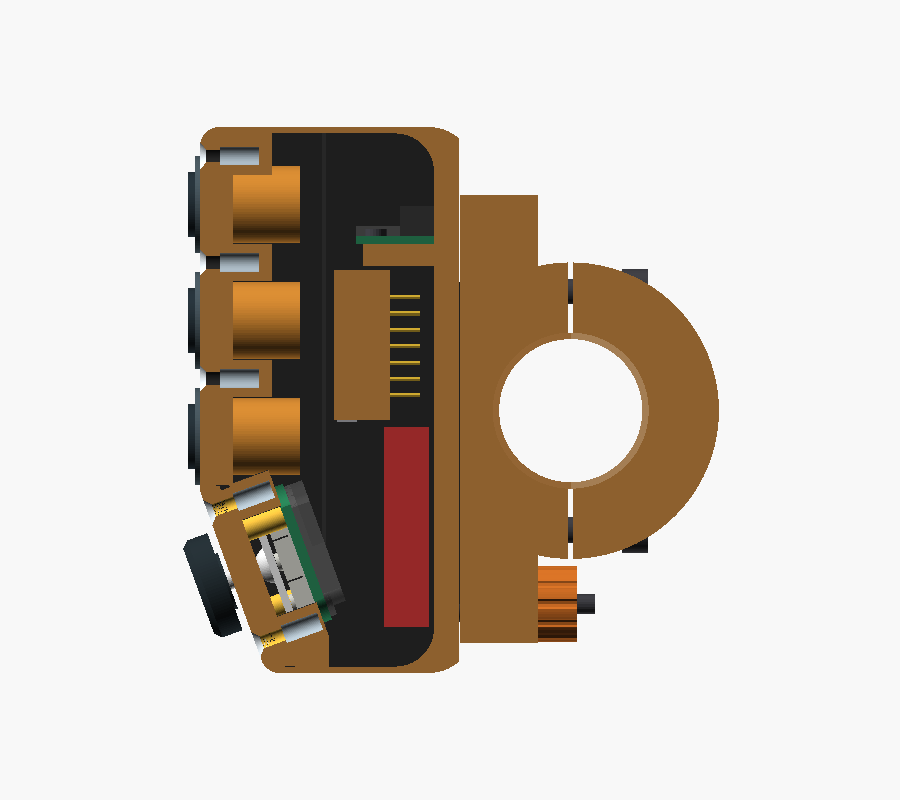
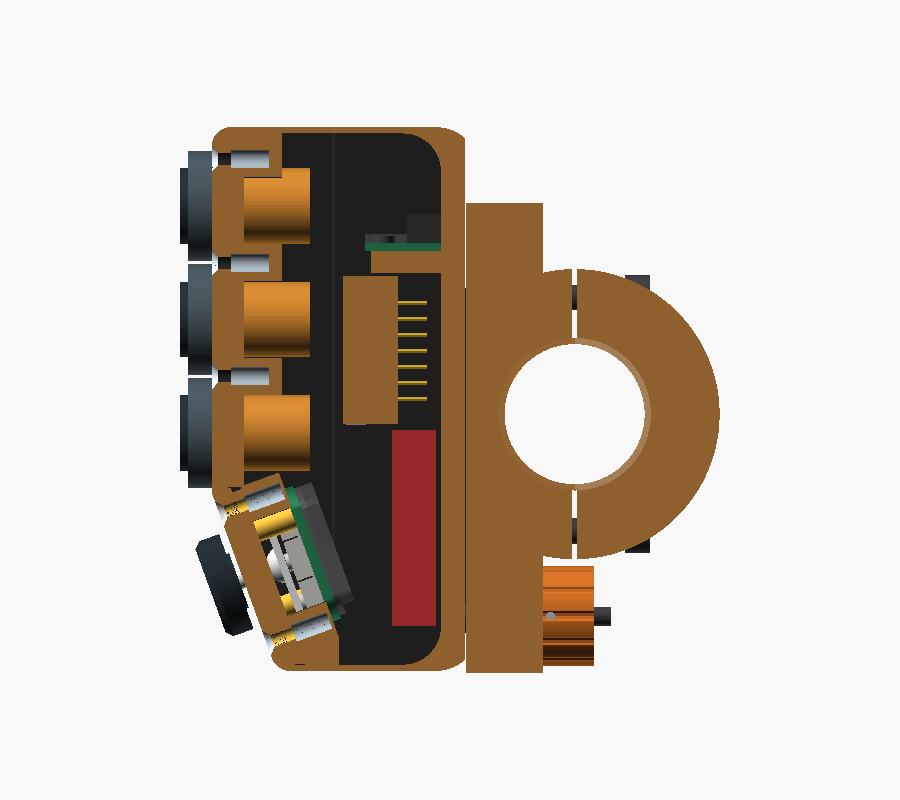
Fit APEM buttons and a quarter-turn lock to V0.24
Choose the APEM ISR3SAD200 for buttons A, B and C, and model it from
the IS series datasheet: the cut-out gets APEM's anti-rotation flat,
and the bezel, actuator and hex nut are real sizes. The buttons move
up 1 mm and the pod top 1.5 mm so each 17.5 mm bezel sits on the
flat facet; the gasket lip narrows to 2.8 mm to clear the nuts.

Turn the lock knob into a quarter-turn cup with two steel pins in
L-slots, so it cannot be pulled until it is turned 90 degrees. Use a
0.5 x 5 x 10 mm spring and an M3 x 22 screw. The BOM, notes, renders
and animation are updated.

diff --git a/docs/mechanical-concept.md b/docs/mechanical-concept.md
@@ -52,7 +52,7 @@ All images are direct OpenSCAD renders of the V0.24 or V0.23 file. The PCB image
 
 ### Base and remote
 
-- **Base.** The clamp ring stays on the bar: two halves split through the bar axis, two M4 × 16 bolts, M4 inserts in the front half, a 1 mm TPU liner. Its outside grows from Ø44 to Ø46 mm, and the bolts move from ±17 to ±18.5 mm, so the same layout suits a 25.4 mm bore. In front of the bar the base is cut flat at X = −17.2 mm (`platform_x`), 3.5 mm in front of the 25.4 mm bore with its liner. That flat platform runs from Y = −36 to +33.5 mm.
+- **Base.** The clamp ring stays on the bar: two halves split through the bar axis, two M4 × 16 bolts, M4 inserts in the front half, a 1 mm TPU liner. Its outside grows from Ø44 to Ø46 mm, and the bolts move from ±17 to ±18.5 mm, so the same layout suits a 25.4 mm bore. In front of the bar the base is cut flat at X = −17.2 mm (`platform_x`), 3.5 mm in front of the 25.4 mm bore with its liner. That flat platform runs from Y = −41 to +33.5 mm.
 - **Bar sizes.** One base per bar size: `bar_diameter` = 22.2 (7/8 in) or 25.4 (1 in). The bore changes; nothing that meets the remote does. Tapered 28.6 mm bars come down to 22.2 mm at the controls.
 - **Remote.** The V0.23 pod without the ring and the shoulders, cut flat at X = −17.4 mm (`rear_x`). The cavity's rear wall moves from X = −22 to −21.2 mm, which gives the XIAO pins 2.2 mm instead of 1.4 mm.
 
@@ -76,12 +76,21 @@ The [battery study](battery-study.md) first proposed a bayonet turning around th
   - Only forces that slide the remote down load the lock: tilting the joystick down, shocks, and gravity, depending on how the unit is mounted.
 - **Anti-rattle.** Two TPU strips, 4 × 50 mm, sit in 0.6 mm pockets on the platform either side of the rails and stand 0.8 mm proud. They push the remote off the platform until the dovetail flanks seat, with the rear face 0.48 mm off the platform, which leaves the strips about 0.3 mm compressed. A firm press moves the remote back onto the platform by up to 0.48 mm. Whether that feels loose on the buttons needs a test.
 
+### Buttons
+
+- **APEM ISR3SAD200.** Sealed IP67 pushbutton: round curved black actuator, normally open, solder lugs, gold-plated contacts, standard Ø17.5 mm bezel with a flat seal, M12 × 0.75 bushing and a 14 mm A/F hex nut. The datasheet gives 4 ± 3 N, 1.7 mm travel, 10 g vibration and 100 g shock.
+- **Cut-out.** Ø13.6 mm with APEM's anti-rotation flat, 12.9 mm across, in place of the round cut-out with a 45° top.
+- **Layout.** The bezels need a flat seat on the upper facet, so the buttons move up 1 mm to Y = 33, 15 and −3 mm, the pod top from 44 to 45.5 mm, and the upper-facet cover screws to 40.5, 24 and 6 mm. Each bezel stays 0.75 mm from the fold and from the top corner radius. The pitch stays 18 mm; APEM recommends 20 mm.
+- **Nuts.** A hex nut can stop at any angle, so the CAD checks a Ø16.2 mm circle (its corners) behind each button: clear of the housing, the gasket, the joystick and each other once the gasket lip is 2.8 mm wide instead of 3 mm. There are 1.8 mm between nut corners at 18 mm pitch, so the nuts need an open-end wrench, not a socket.
+
 ### Lock
 
-- An M3 × 20 ISO 4762 screw is the lock pin: its Ø5.5 × 3 mm head runs in a Ø6 mm pocket in the platform at Y = −30 mm, below the clamp ring and clear of the lower bolt.
-- A compression spring under the head pushes it 2 mm out of the platform, into a Ø5.8 mm hole in the remote's rear face. A positive stop, not a detent: the remote cannot slide down until the head is pulled in.
-- The shank runs back through the base to a Ø12 mm printed knob with an M3 insert, locked by a nut. The knob rests on the back of the platform block (X = −5 mm) and sets how far the head stands out.
-- Pulling the knob 2 mm pulls the head flush. When the remote is pressed on at the entry position, its rear face pushes the head in; the head springs out when the hole comes over it.
+- An M3 × 22 ISO 4762 screw is the lock pin: its Ø5.5 × 3 mm head runs in a Ø6 mm pocket in the platform at Y = −32 mm, below the clamp ring and clear of the lower bolt.
+- A 0.5 × 5 × 10 mm stainless compression spring (wire × outside diameter × free length) under the head pushes it 2 mm out of the platform, with about 3.4 N (estimated, not measured), into a Ø5.8 mm hole in the remote's rear face. A positive stop, not a detent: the remote cannot slide down until the head is pulled in.
+- The shank runs back through the base to a Ø16 × 8 mm printed knob with an M3 insert, locked by a nut. The knob rests on the back of the platform block (X = −5 mm) and sets how far the head stands out.
+- **Quarter turn.** The knob is a cup over a Ø9 × 3.5 mm boss on the back of the block. Two Ø1.5 × 4 mm steel dowel pins through the cup wall run in L-slots in the boss. Locked, the pins sit in the circumferential part of the slots and the knob cannot be pulled; turning it 90° brings them to the axial part, and then it pulls out 2 mm. The CAD checks the knob locked, turned 45° and 90°, and pulled, with no overlap, and that it cannot be pulled while locked or half-turned.
+- **Vibration.** Vibration alone should not pull the head in: the moving parts weigh about 2.5 g, so the 3.4 N spring needs about 140 g along the pin axis to be overcome (an estimate). The quarter turn is against a branch or a strap pulling the knob.
+- Turning the knob 90° and pulling it 2 mm pulls the head flush. When the remote is pressed on at the entry position, its rear face pushes the head in; the head springs out when the hole comes over it.
 - Only 1 mm of the head stays in its pocket when locked. The shank, guided over 5 mm in the base, takes the moment.
 
 ### Battery, charging and vent
@@ -136,7 +145,7 @@ V0.22 keeps from V0.21 the sheet gasket and the plate that clamps it, and replac
 
 - **Folded front.** The fold line is 12.5 mm below the bar axis, between button C and the joystick. The lower facet is 30 mm long and turns 20° toward the bar (`fold_angle`), so its lower end sits 10.3 mm closer to the bar. This clears the thumb's path to the turn-signal switch, which the straight V0.19 face obstructed. The joystick axis is 14.5 mm below the fold.
 - **Why 20° and not 30°.** At 30° the end wall becomes too short for the gland lock nut beside the corner screw bosses. The 30° values are noted next to `fold_angle` in the CAD.
-- **Pod length.** Buttons at Y = 32, 14, −4 mm; the pod spans Y = −40.7 to 44 mm (84.7 mm). The axis-to-button-C distance is 57.5 mm perpendicular to the bar.
+- **Pod length.** In V0.24 the buttons are at Y = 33, 15, −3 mm and the pod spans Y = −40.7 to 45.5 mm (86.2 mm), 1.5 mm longer than in V0.23 (32, 14, −4; 44 mm), to fit the real APEM bezels. The axis-to-button-C distance is 57.5 mm perpendicular to the bar.
 - **Cover gasket.** 0.6 mm when compressed: printed 0.8 mm thick in a soft TPU, or cut from 0.8–1 mm silicone or EPDM sheet using the flat model as a template. On the upper facet the housing land is the wall plus a 3 mm lip inside both axial walls, and a Ø6 mm pad around every screw.
 - **Cover screws.** Ten countersunk M2 screws in pairs at five positions. The largest spacing along the perimeter is 21.8 mm.
 - **Cover printing.** The cover prints on its axial face, because the fold would need support face down.
@@ -200,7 +209,7 @@ The tightest points are now:
 
 V0.24 aims for rain and spray resistance, not an IP rating. It has not been tested.
 
-1. **Buttons.** Use buttons rated for front-panel sealing (IP67 or better), with their panel gasket. This has not been verified for the APEM IS order codes; check the datasheets before buying.
+1. **Buttons.** APEM ISR3SAD200, IP67 front-panel sealing (IEC 60529) with the flat seal under the bezel. The Ø17.5 mm bezel and its seal sit on the flat upper facet, 0.75 mm from the fold and from the top corner radius.
 2. **Joystick.** The cover hole is open to the outside. The sheet gasket is the seal there: it is clamped all round the hole and grips the stick. A printed TPU sheet that flexes with every stick movement may tear or creep; a cast silicone sheet would last longer.
 3. **Cover joint.** The gasket and ten screws. On the lower facet the sheet is clamped over the whole facet. Elsewhere the land is the 2 mm wall of the wide part.
 4. **USB-C.** The GCT USB4736 is rated IP67 with its USBTJ-06 gasket compressed on the thinned land; GCT says the gasket is fitted after the receptacle is soldered. Pot the back of the receptacle and its PCB with epoxy as a second barrier. On the bike the platform covers it. The groove and the lock hole are blind and do not open into the cavity.
@@ -251,7 +260,7 @@ Remote:
 
 Base:
 1. Press the two M4 inserts into the base front's split face.
-2. Drop the lock spring into the pocket, push the M3 × 20 screw through it from the platform side, and fit the lock knob (with its M3 insert) on the shank from behind. Turn the knob until the head stands 2 mm proud with the knob on the block, then lock it with an M3 nut.
+2. Press the two Ø1.5 × 4 mm dowel pins into the lock knob, and its M3 insert from inside the cup. Drop the lock spring into the pocket and push the M3 × 22 screw through it from the platform side. Fit the knob over the boss with the pins in the axial slots, thread it onto the shank until the head stands 2 mm proud with the knob on the block, turn it to the locked position, and lock it with an M3 nut.
 3. Glue the two TPU strips into their pockets.
 4. Fit the liner halves, place the base on the bar with the platform where the remote should sit, fit the cap from behind, set the angle, and tighten the two M4 × 16 bolts evenly.
 
@@ -276,27 +285,27 @@ V0.8 follows those functional and packaging cues while keeping original geometry
 | Feature | CAD value | Basis |
 |---|---:|---|
 | XIAO nRF52840 board outline | 21 × 17.8 mm | Seeed Studio published dimensions |
-| APEM IS button panel opening | Ø13.6 mm | APEM IS series drawing |
-| APEM reduced bezel option | 15 mm | APEM IS series options; confirm exact ordered variant |
+| APEM ISR3SAD200 panel cut-out | Ø13.6 mm with an anti-rotation flat 12.9 mm across | APEM IS series datasheet (16/08/2024); the flat is at the cover's print top, where it bridges |
+| APEM ISR3SAD200 head and nut | Ø12 mm actuator, Ø17.5 mm bezel, 5.0 mm above the panel; M12 × 0.75 bushing, 13 mm behind the panel; 14 mm A/F hex nut | APEM IS series datasheet; the reduced Ø15 mm bezel (option 234) was not found at distributors |
 | KSC2 switch | 6.2 (+0.3) × 6.2 (+0.3) mm body, 3.5 mm to the actuator top, Ø2.9 mm actuator; 2 N, 0.35 ± 0.15 mm travel (KSC22x) | C&K KSC2 datasheet; modelled at 6.5 mm |
 | Handlebar | Ø22.2 mm (7/8 in) or Ø25.4 mm (1 in) | One base per bar size; measure the actual straight section |
-| Base clamp | Ø46 mm outer diameter, Ø24.2 or Ø27.4 mm bore, flat platform at X = −17.2 mm from Y = −36 to +33.5 mm | Diametral split into two halves with a 0.8 mm clamping gap; not strength-validated |
+| Base clamp | Ø46 mm outer diameter, Ø24.2 or Ø27.4 mm bore, flat platform at X = −17.2 mm from Y = −41 to +33.5 mm | Diametral split into two halves with a 0.8 mm clamping gap; not strength-validated |
 | Remote rear face | Flat at X = −17.4 mm | 0.2 mm clear of the platform |
 | Dovetail | Rails 10 mm wide at the platform, 15 mm at the top, 2.5 mm high, 45° flanks; two 8 mm segments with a 9 mm gap; 7 mm lips; 0.2 mm clearance; 9 mm slide | Prints without supports on both parts; clearance to tune on the first print |
-| Lock | M3 × 20 ISO 4762 head (Ø5.5 × 3 mm) 2 mm proud, in a Ø6 mm pocket at Y = −30 mm; Ø5.8 mm hole in the remote; Ø12 × 6 mm knob | ISO 4762 head size; spring not yet chosen |
+| Lock | M3 × 22 ISO 4762 head (Ø5.5 × 3 mm) 2 mm proud, in a Ø6 mm pocket at Y = −32 mm; Ø5.8 mm hole in the remote; 0.5 × 5 × 10 mm spring; Ø16 × 8 mm quarter-turn knob on a Ø9 × 3.5 mm boss, two Ø1.5 × 4 mm pins | ISO 4762 head size; spring force estimated |
 | USB-C receptacle | GCT USB4736-GF-A; shell axis at Y = 29.5 mm in the rear face, long side along the bar; 1.80 mm panel, 9.14 × 3.36 mm slot, 11.00 × 5.90 × 0.60 mm gasket pocket; USBTJ-06 gasket 10.64 × 4.86 × 0.90 mm; body 9.99 wide, 4.61 mm above its PCB, 8.60 mm long | GCT drawing USB4736 rev. A (9 April 2025) |
 | LiPo pouch | 6 × 20 × 30 mm envelope with 0.5 mm clearance, X = −29 to −22, Y = −33.5 to −2.5 mm | 602030 listings; measure the bought cell |
 | Pod front corners | 3 mm radius | Leaves a flat cover face for the M2 screws |
 | Folded front | Upper facet normal to the pod axis; lower facet turned 20° toward the bar, fold 12.5 mm below the bar axis | Clears the thumb's path to the turn-signal switch; the angle is a parameter |
 | Pod cavity corners | 2 mm front, 6 mm rear | 1 mm inset from the outer corners |
 | Clamp liner | 1 mm radial TPU liner | Parametric target; tune to measured bar and print process |
-| Remote envelope | 40.1 × 84.7 mm in the plane of the clamp (X = −57.5 to −17.4 mm); 23 mm along the bar at the rear, 26 mm at the control end | Bar footprint from the manual's 23 mm installation clearance |
+| Remote envelope | 40.1 × 86.2 mm in the plane of the clamp (X = −57.5 to −17.4 mm); 23 mm along the bar at the rear, 26 mm at the control end | Bar footprint from the manual's 23 mm installation clearance |
 | Button direction | Button axes perpendicular to the handlebar axis | Layout requirement |
 | Case wall / cover | 2.0 mm axial walls at the control end, 1.0 mm in the narrow part and at the ends / 2.5 mm cover | Cover within the APEM IS panel range |
-| Control layout | Buttons at Y = 32, 14, −4 mm (18 mm pitch) on the upper facet; joystick axis 14.5 mm below the fold on the lower facet, 23 mm from button C measured over the surface | Layout target; confirm glove access and supplier bezel sizes |
+| Control layout | Buttons at Y = 33, 15, −3 mm (18 mm pitch) on the upper facet; joystick axis 14.5 mm below the fold on the lower facet, 24 mm from button C measured over the surface | APEM recommends 20 mm between IS buttons; 18 mm leaves 0.5 mm between bezels and 1.8 mm between nut corners, so the nuts need an open-end wrench. To judge on the first print |
 | Clamp fasteners | Two parallel M4 × 16 ISO 4762 bolts at ±18.5 mm from the bar axis; Ø7.6 mm counterbores 8 mm from the split face; Ø5.6 × 8.1 mm insert holes | 7.6 mm grip, 7.6 mm engagement, 2.65 mm wall to the 25.4 mm bore; confirm against the bought bolts and inserts |
 | Cover fasteners | Six M2 × 8 (upper facet) and four M2 × 10 (lower facet, through the joystick plate) ISO 10642 countersunk screws; Ø3.2 × 6 mm insert holes in Ø6 mm bosses | Spaced 16.5–21.8 mm along the perimeter to compress the gasket; confirm against the bought inserts |
-| Cover gasket | 0.6 mm compressed (0.8 mm printed or cut) | Upper facet: 1 mm on the walls, 4 mm with the lip, Ø6 mm around each screw. Lower facet: full sheet on the joystick plate, Ø2.4 mm hole stretched over the stick |
+| Cover gasket | 0.6 mm compressed (0.8 mm printed or cut) | Upper facet: 1 mm on the walls, 3.8 mm with the lip (4 mm before V0.24; the APEM nuts need the room), Ø6 mm around each screw. Lower facet: full sheet on the joystick plate, Ø2.4 mm hole stretched over the stick |
 | Pod width | 23 mm along the bar at the base and the rear of the pod; 26 mm for X < −38 mm | 23 mm from the NAVCOMM manual's minimum free space on the bar; the control end is 40–60 mm from the bar axis |
 | Joystick | Ø16 mm knob 5.5 mm proud, hub 0.7 mm and rim 1.15 mm above the cover; Ø3 × 12 mm steel pin; Ø6 mm ball on a Ø3.6 mm seat edge, pivot 7.0 mm behind the face; 1.2 mm cross disc 0.05 mm above four KSC2 at 6.75 mm | Trips at ≤ 4.7° tilt; knob stop at 8.2° or 0.7 mm push; disc room 9.5° |
 | Joystick plate | 1.5 mm, behind the sheet; Ø3.6 mm seat hole opening to Ø4.8 mm at the front; Ø10 × 0.6 mm sheet pocket; two Ø3.6 mm standoffs, 6.25 mm tall, at (∓6.0, ±6.4) mm from the stick axis | Printed PETG; clamped by the four lower cover screws |
@@ -314,7 +323,7 @@ APEM's [IS series page](https://www.apem.com/panel-switches/pushbutton-switches/
 
 These are the only items that block a confident first print. Each is a parameter in the CAD.
 
-- **Buttons:** exact APEM IS order codes, sealing rating, nut sizes behind the panel, terminal length, and wire exit.
+- **Buttons:** APEM ISR3SAD200 chosen; measure the nut thickness (`button_nut_h`, 2.5 mm assumed) and check the 18 mm pitch with gloves and a wrench on the first print.
 - **Joystick:** measure the KSC2 height and the printed plate, ball and disc; together with the standoffs they set the 0.05 mm rest gap (`joy_rest_gap`). The feel (4.7° to trip, 2 N per direction, about 8 N for the centre chord) and the Ø16 mm knob need a check with gloves.
 - **XIAO:** PCB thickness, header spacer height, pin length, and component height. Adjust `xiao_pcb`, `xiao_header_plastic`, `xiao_pin_length`, and `xiao_component_h`; the render stops if the pins reach the rear wall.
 - **Inserts:** hole diameters and depths for the actual M4 and M2 inserts.

diff --git a/docs/bom.md b/docs/bom.md
@@ -2,7 +2,7 @@
 
 This is the single parts list for the project: the bench prototype and the V0.24 removable, battery-powered remote with its base. Design details stay in the linked documents; this page lists what to buy.
 
-**Status:** nothing in the V0.24 list has been built or tested. Items marked *to choose* have no part number yet.
+**Status:** nothing in the V0.24 list has been built or tested.
 
 Sourcing preference: parts that builders can buy from mainstream retailers (for example Amazon) come first. Distributor-only parts are used only where no retail part meets the requirement, and the reason is given.
 
@@ -40,7 +40,7 @@ See the [mechanical notes](mechanical-concept.md) for where each part goes and t
 | 1 | [USB-C charging PCB](../electronics/usbc-pcb/README.md), 14 × 13.6 × **1.2** mm | JLCPCB or another board house | Order at 1.2 mm. Files in `electronics/usbc-pcb/fab/`. |
 | 1 | GCT USB4736-GF-A-KIT: USB-C receptacle, 6 contacts, charge only, IP67 with USBTJ-06 gasket | DigiKey, Mouser, Farnell, TME | Distributor part: the sealed USB-C parts sold on Amazon either lack the CC pins or are too large for the rear face. |
 | 2 | 5.1 kΩ 1 % resistor, 0603 (UNI-ROYAL 0603WAF5101T5E) | LCSC C23186 | On the USB-C PCB. |
-| 3 | Panel pushbutton, APEM IS series, Ø13.6 mm panel cutout, sealed (*to choose*) | *to choose* | Buttons A, B, C. Order code, sealing rating, nut size and terminals still to confirm. |
+| 3 | APEM ISR3SAD200 sealed pushbutton: round curved black actuator, NO, solder lugs, IP67, standard bezel, nut and flat seal supplied | DigiKey, RS, L'impulsion | Buttons A, B, C. Distributor part: no retail sealed button with a datasheet was found. About USD 11 each at DigiKey (2026-10-11). |
 | — | Hook-up wire, about 28–30 AWG, silicone insulated | Retail | Buttons, joystick PCB and USB-C PCB to the XIAO. |
 
 ### Hardware
@@ -77,15 +77,16 @@ Print settings and orientations are in the [mechanical notes](mechanical-concept
 |---:|---|---|---|
 | 2 | M4 × 16 socket-head screw, ISO 4762 | Retail | Clamp. |
 | 2 | M4 heat-set insert, short | Retail | Hole Ø5.6 × 8.1 mm in the CAD; check against the insert bought. |
-| 1 | M3 × 20 socket-head screw, ISO 4762 | Retail | Its head is the lock pin. |
-| 1 | Compression spring, about Ø5 mm outside, fits over Ø3 mm, about 4 mm long when compressed (*to choose*) | Retail | Lock. |
+| 1 | M3 × 22 socket-head screw, ISO 4762 | Retail | Its head is the lock pin. |
+| 1 | Compression spring 0.5 × 5 × 10 mm, stainless (wire × outside diameter × free length) | Retail (spring assortments; cut a longer one to length if needed) | Lock. About 3.4 N locked, estimated. |
+| 2 | Ø1.5 × 4 mm steel dowel pin, ISO 8734 | Retail | Quarter-turn lock knob. |
 | 1 | M3 heat-set insert | Retail | Lock knob. |
 | 1 | M3 nut | Retail | Locks the knob on the screw. |
 | 2 | TPU strip, 4 × 50 × 1.4 mm | Printed TPU, or cut from rubber sheet | Anti-rattle, glued into the platform pockets. |
 | 1 | Base front | PETG or ASA, `print_base_front` | Set `bar_diameter` to 22.2 or 25.4 mm before exporting. |
 | 1 | Base cap | PETG or ASA, `print_base_cap` | |
 | 2 | Bar liner half | TPU 95A, `liner_main`, `liner_cap` | |
-| 1 | Lock knob | PETG, `print_lock_knob` | |
+| 1 | Lock knob, Ø16 mm quarter turn | PETG, `print_lock_knob` | Top face on the bed. |
 
 ## Consumables
 
